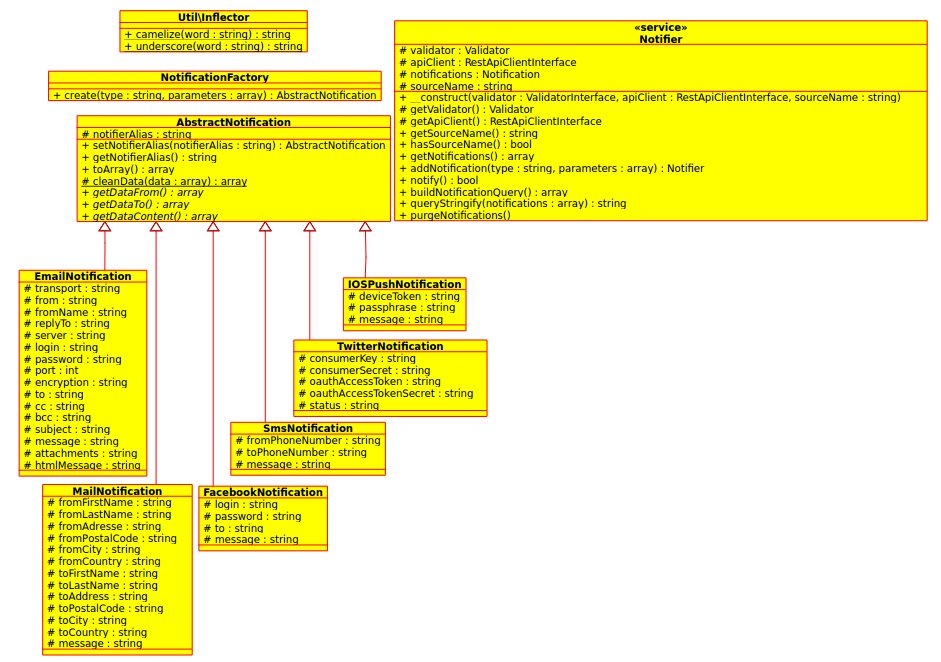
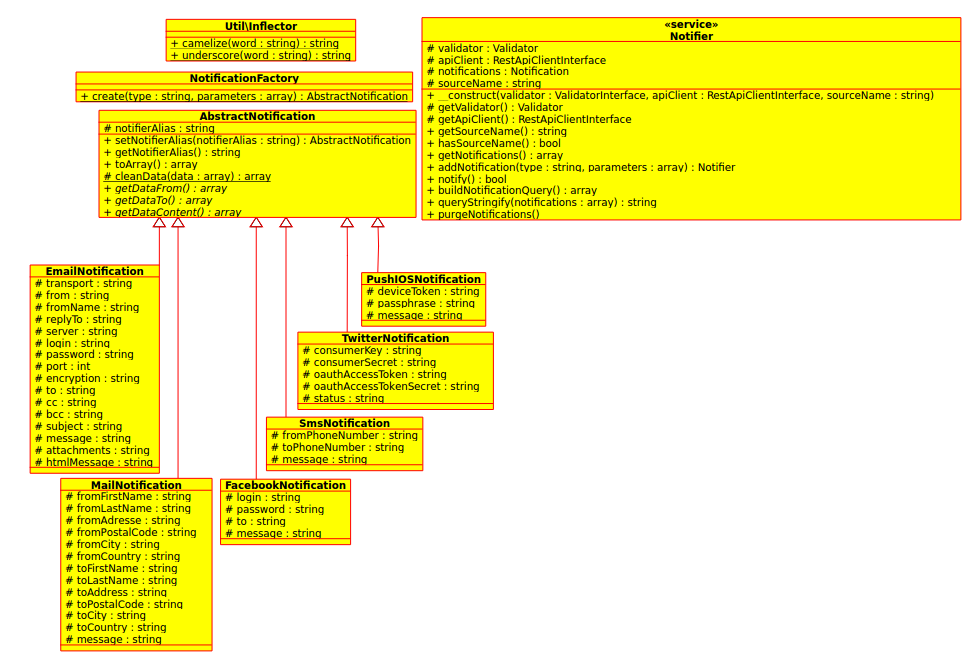
Rename

Changed region(s): [[0.0, 0.0, 1.0, 0.997]]

diff --git a/Command/NotifyCommand.php b/Command/NotifyCommand.php
@@ -60,7 +60,7 @@ php app/console %command.name% twitter '{"notifierAlias": "alias", "to": "mytwit
 
 Example with a IOSPush notification:
 <info>
-php app/console %command.name% sms '{"notifierAlias": "alias", "deviceToken": "c5de7ff905600djuf4ehdju153er91f688d99bd408ada5a8d4531d546e20ce6", "message": "the iOS push message to be send"}'
+php app/console %command.name% pushIOS '{"notifierAlias": "alias", "deviceToken": "c5de7ff905600djuf4ehdju153er91f688d99bd408ada5a8d4531d546e20ce6", "message": "the push iOS message to be send"}'
 </info>
 
 EOT

diff --git a/Notification/PushIOSNotification.php b/Notification/PushIOSNotification.php
@@ -12,8 +12,8 @@ namespace IDCI\Bundle\NotificationApiClientBundle\Notification;
 
 use Symfony\Component\Validator\Constraints as Assert;
 use Symfony\Bridge\Doctrine\Validator\Constraints\UniqueEntity;
-//TO FIX to change into PushIOSNotification in factory
-class PushIosNotification extends AbstractNotification
+
+class PushIOSNotification extends AbstractNotification
 {
     /**
      * @Assert\NotBlank()

diff --git a/Resources/doc/notification.md b/Resources/doc/notification.md
@@ -348,7 +348,7 @@ $response2 = $this->get('notification_api_client.notifier')
 ;
 ```
 
-### IOSPush
+### PushIOS
 
 #### Field "notifierAlias" :
 
@@ -384,10 +384,10 @@ The function `notify()` returns a response from an API Client.
 #### Case 1 : notification with notifier parameters
 ```php
 $response1 = $this->get('notification_api_client.notifier')
-    ->addNotification("iOSPush", array(
+    ->addNotification("pushIOS", array(
         "deviceToken" => "c5de75d953cff905600hdju153er91f688d99bd408ada5a8d4531d546e20ce6",
         "passphrase"  => "your_passphrase",
-        "message"     => "iOS push message"
+        "message"     => "push iOS message"
     ))
     ->notify()
 ;
@@ -396,10 +396,10 @@ $response1 = $this->get('notification_api_client.notifier')
 #### Case 2 : notification without notifier parameters
 ```php
 $response2 = $this->get('notification_api_client.notifier')
-    ->addNotification("iOSPush", array(
+    ->addNotification("pushIOS", array(
         "notifierAlias" => "my_iOSPush_alias",
         "deviceToken"   => "c5de75d953cff905600hdju153er91f688d99bd408ada5a8d4531d546e20ce6",
-        "message"       => "iOS push message"
+        "message"       => "push iOS message"
     ))
     ->notify()
 ;
